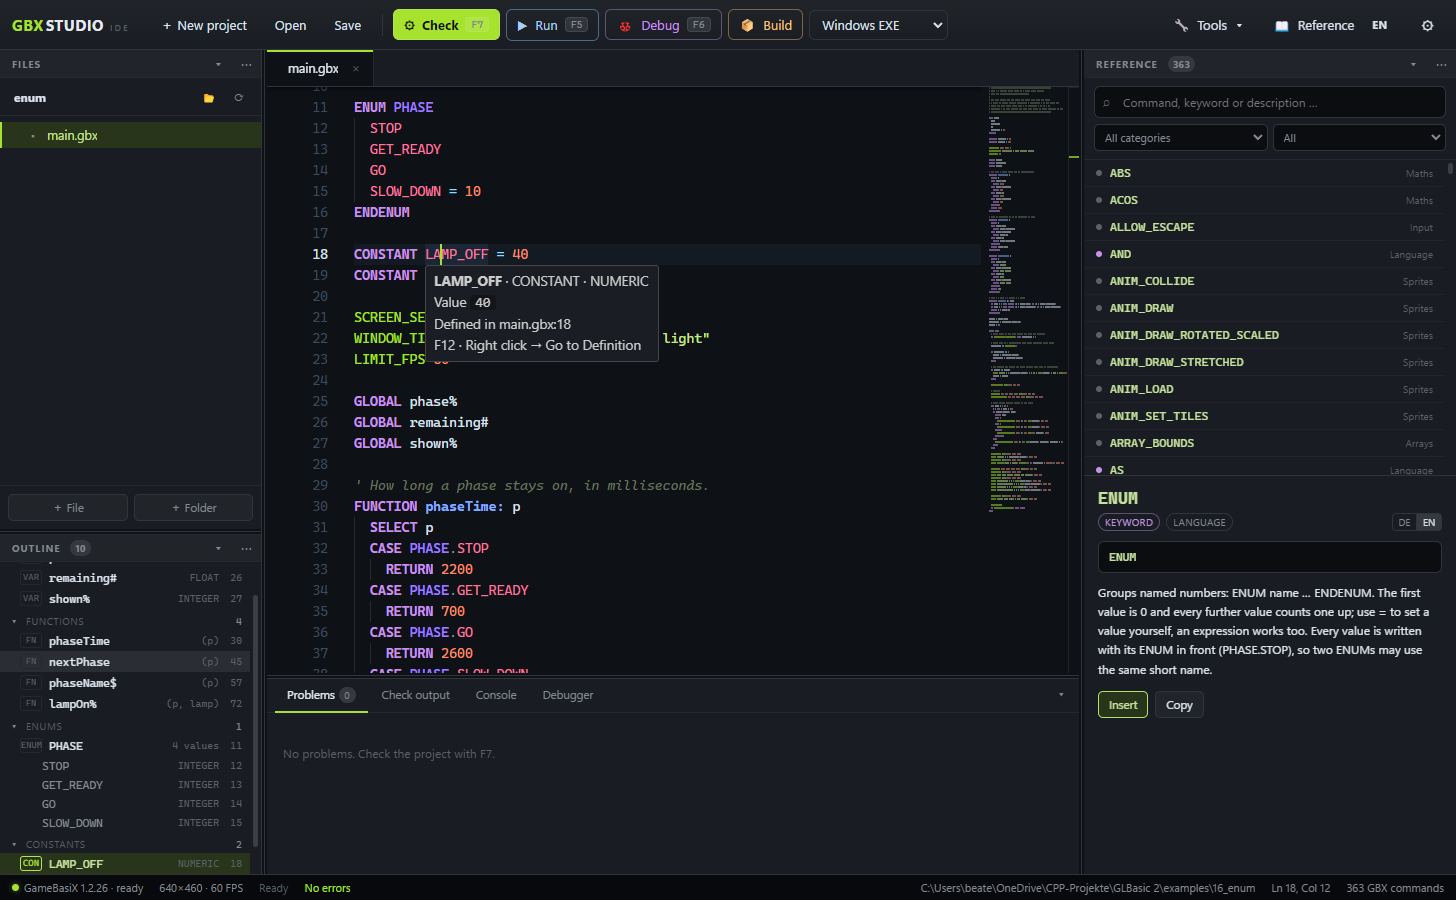
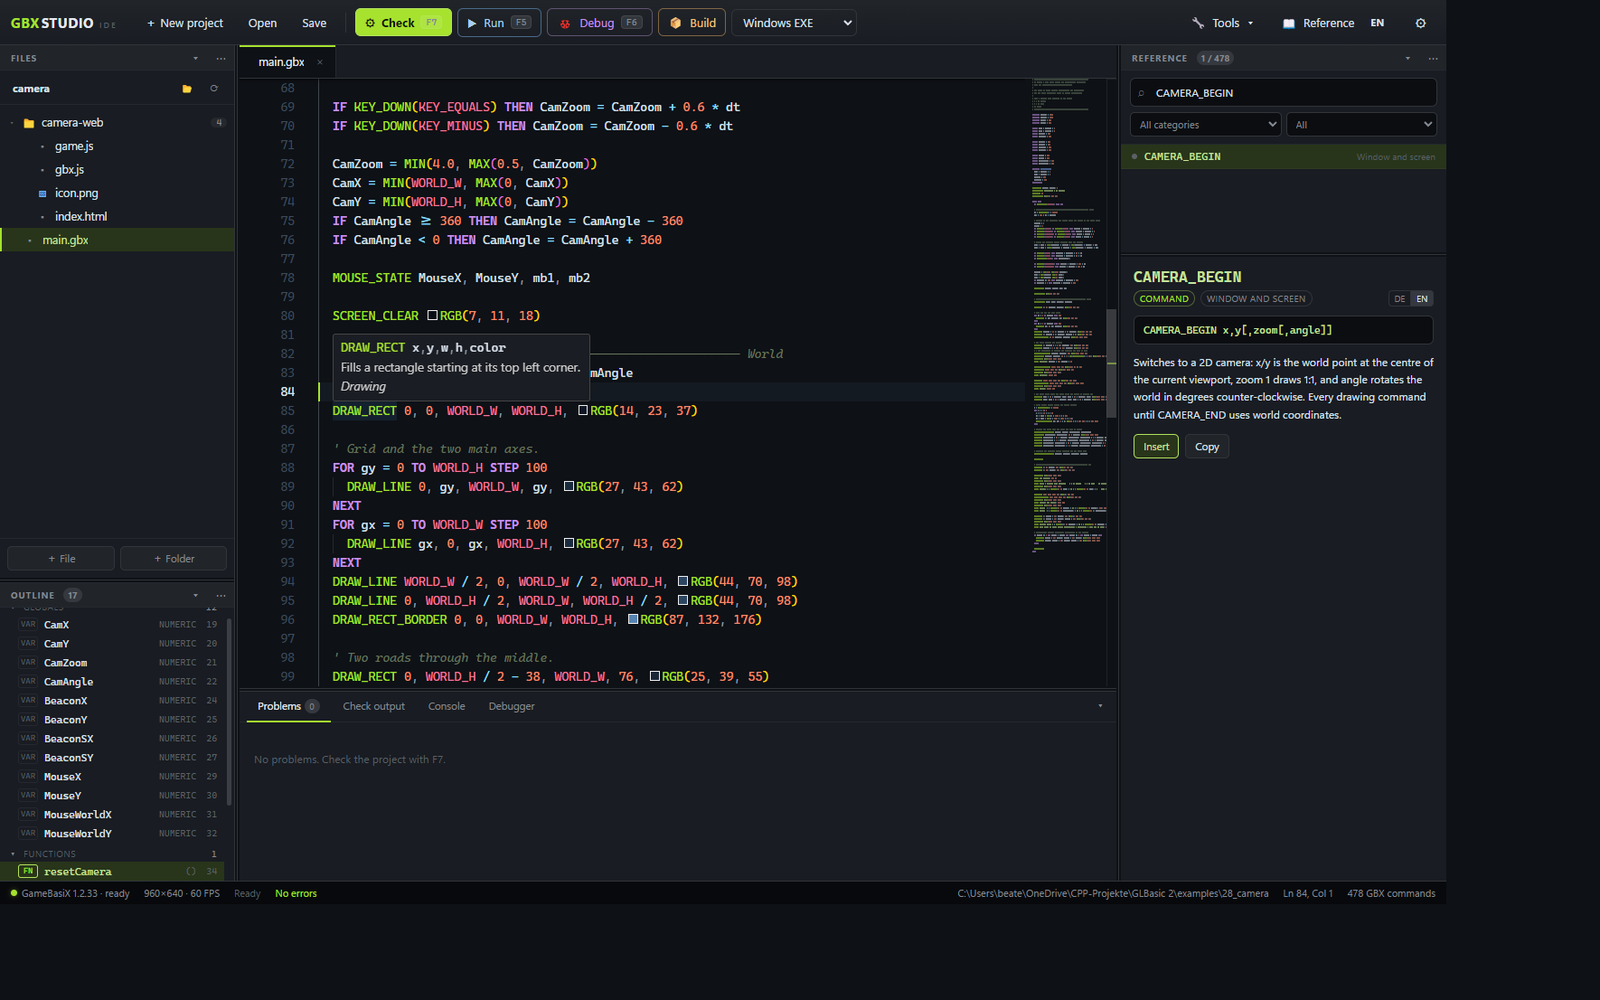
Refresh the GitHub front page with engine and IDE capabilities
The old overview only listed a handful of features and showed an outdated
editor screenshot. Add a current capability matrix, a complete BASIC/INLINE C++
example, two fresh GBX Studio screenshots, and the IDE features that matter for
daily work, from live checks and the bilingual reference to the debugger and
both export targets.

🤖 Generated with Codebuff

diff --git a/README.md b/README.md
@@ -1,57 +1,184 @@
 # GameBasiX
 
+![Release](https://img.shields.io/github/v/release/SliverLIVE/GameBasiX?label=release&color=2E8555)
 ![Platform](https://img.shields.io/badge/platform-Windows%2010%20%7C%2011-0078D4?logo=windows&logoColor=white)
 ![Language](https://img.shields.io/badge/C%2B%2B-17-00599C?logo=cplusplus&logoColor=white)
 ![Graphics](https://img.shields.io/badge/SDL3-renderer-2E8555)
 ![Editor](https://img.shields.io/badge/editor-Electron-47848F?logo=electron&logoColor=white)
-![Tests](https://img.shields.io/badge/tests-language%20%2B%20inline%20%2B%20ui-brightgreen)
+![Tests](https://img.shields.io/badge/tests-17%2F17-brightgreen)
 
-A BASIC interpreter for 2D games, built on **SDL3** – with direct C++ `INLINE`
-blocks, sprites, sound, file access, TCP/UDP and Steam networking, and a
-complete IDE. 3D and platform extras are deliberately out of scope; the 2D
-core is complete.
+**GameBasiX is a native 2D game engine for Windows with its own BASIC interpreter.**
+Write the game in readable BASIC, drop into C++ exactly where speed or a native
+library matters, and keep both languages in the same source file. GBX Studio
+puts the editor, live checks, debugger and both export targets around it.
 
-![GBX Studio](docs/screenshots/ide.png)
+<p align="center">
+  <img src="docs/screenshots/ide.png" alt="GBX Studio 1.2.33 with the 2D camera example, file tree, outline, command reference and live status" width="100%">
+</p>
 
-<sub>**GBX Studio** – live name checking, outline, a searchable command reference,
-ENUM values with their numbers and a value tooltip right next to the code.</sub>
+<p align="center"><sub><b>GBX Studio 1.2.33</b> — the camera example, project files and outline on the left, the C++/BASIC editor in the middle, and the searchable command reference on the right.</sub></p>
 
-## Highlights
+## BASIC for the game. C++ where it matters.
 
-* Language: BASIC with `$`/`%`/`#` suffixes, `FUNCTION`/`SUB`, `TYPE` with
-  `METHOD`s, `ENUM`, arrays with any number of dimensions (`map[x, y]`),
-  `SELECT CASE`, `TRY`/`THROW`, and `+=` for short assignments
-* Runtime: a C++17 interpreter (lexer → parser → AST), no compiler step in between
-* Graphics: SDL3 renderer, PNG/JPG/BMP sprites, rotation/zoom, polygons,
-  render targets, software alpha modes
-* Text: built-in 8×8 bitmap font, bitmap fonts on a 16×8 grid and
-  **TrueType through FreeType** (optional)
-* Sound: a small software mixer for **WAV and MP3** sounds and music (MP3
-  through the bundled minimp3 decoder)
-* Inline C++: `INLINE` definitions and steps with direct access to BASIC
-  variables, compiled once and cached
-* Network: non-blocking TCP and UDP sockets (`NET*`/`UDP*`) plus Steam P2P
-  packets and the friend list through the Steamworks flat API, loaded at
-  runtime
-* Tooling: **GBX Studio** with live checks, a debugger, single-file EXE and
-  HTML5 export - and hot reload: a changed image, font or sound is picked up
-  by the running game
+`INLINE` is not a separate project, a build script or a foreign-function wrapper.
+It is a block in the middle of the BASIC program:
 
-Ready to try it? `cmake -S . -B build -G Ninja && cmake --build build`, then
-`build/gbx.exe examples/09_ui/ui.gbxproj`.
+```basic
+INLINE
+#include "curve.h"                 // definitions: compiled once at startup
+ENDINLINE
 
-## Screenshots
+FUNCTION glow: u
+  value = 0
+  INLINE
+    value = (1.0 - u) * (1.0 - u); // sees the BASIC parameter u and local value
+  ENDINLINE
+  RETURN value
+ENDFUNCTION
+
+WHILE TRUE
+  INLINE
+    Frames = Frames + 1;            // a step: runs here on every frame
+  ENDINLINE
+  SCREEN_SHOW
+WEND
+```
+
+At top level an `INLINE` block contains **definitions**: headers and functions
+registered with `GBX_INLINE_FN("NAME", …)` become ordinary GBX commands. Inside
+a `FUNCTION`, `SUB`, `METHOD`, `IF` or loop it is a **step** that runs at that
+point and sees the BASIC variables of that scope. Steps can call GBX commands
+directly (`PRINT`, `DRAW_LINE`, `DELTA_TIME`, …), resize BASIC arrays
+(`list.push(42)`, `insert`, `remove`, `resize`), or hand a finished image to the
+screen with `blitScreen`. Constants are read-only; user-defined BASIC functions
+stay in BASIC.
+
+Definitions are cached by a hash of the generated C++ and loaded as a DLL on
+startup. Projects can also link ready-built `.a` archives through `[native]`.
+When a game is exported, the compiled INLINE code is embedded in the EXE or in
+the HTML5 player, so the player needs neither a compiler nor a separate DLL.
+See [INLINE: C++ inside the BASIC program](#inline-c-inside-the-basic-program)
+for the complete rules.
+
+## What the engine can do
+
+| Area | Built in |
+| --- | --- |
+| **Language and runtime** | C++17 AST interpreter; suffixes (`$`, `%`, `#`), `FUNCTION`/`SUB`, `TYPE` with methods and defaults, interfaces and inheritance, `ENUM`, multi-dimensional arrays, `SELECT`, `TRY`/`CATCH`/`FINALLY`, `OPTION STRICT`, `BYREF`, static locals, includes and name checking. |
+| **2D rendering** | SDL3 renderer; PNG/JPG/BMP sprites and animation sheets, rotation, scaling, stretching, collision helpers, polygons, render targets, viewports, screen scaling, alpha modes, RGBA colours and a pan/zoom/rotate 2D camera. |
+| **Text and fonts** | Built-in 8×8 bitmap font, bitmap fonts on a 16×8 grid, TrueType through FreeType, text measurement, coloured text and `INPUT` fields. |
+| **Audio** | Software mixer for WAV and MP3 sounds and music; pan, volume, loops and playback state. MP3 decoding uses the bundled minimp3. |
+| **Input** | Keyboard scancodes with `KEY_*` names, mouse position/buttons/wheel, single-frame presses and connected gamepads with named buttons and axes. |
+| **Data** | Buffered text and binary file I/O, directories, string/math helpers, arrays with sort/find, string-keyed dictionaries, `TYPE` arrays and arrays inside `TYPE`s. |
+| **Networking** | Non-blocking TCP and UDP; listen/accept/connect, text packets, peer address, pending bytes and error text. |
+| **Steam** | Friends and P2P packets, achievements, integer/float stats, leaderboards, cloud files, lobbies with member data, rich presence, overlay, auth session tickets and DLC checks. Loaded at runtime; the Steam DLL is not redistributed. |
+| **Tasks and async work** | `TASK`/`AWAIT FRAME`/`AWAIT seconds` cooperative fibers, `SPAWN(@function, …)` worker jobs, `FILE_READ_ASYNC`/`FILE_WRITE_ASYNC`, and `JOB_DONE`/`JOB_VALUE` polling without blocking the frame. |
+| **Native C++** | `INLINE` definitions and steps, direct access to BASIC variables and arrays, direct GBX calls, `[native]` archives/object files, generated C++ export and HTML5/Wasm support through Emscripten. |
+| **Tools and shipping** | GBX Studio, live name/arity checking, debugger, hot reload for assets, one-file Windows EXE export and self-contained HTML5 export. |
+| **Scope** | Deliberately 2D. There is no 3D renderer, scene graph or platform-specific editor layer; the 2D core is the product. |
+
+The built-in command set covers **300+ commands**; the IDE ships **478 searchable
+reference entries** including commands, keywords, operators, types and `KEY_*`
+constants. The complete list is in the [command reference](#command-reference),
+in [CHEATSHEET.png](CHEATSHEET.png), or in the IDE's reference panel.
+
+## GBX Studio: what makes it different
+
+GBX Studio is not a generic text editor with a syntax file bolted on. It knows
+the project, the interpreter and the C++ blocks:
+
+- **Two languages, one editor.** Monaco highlights GBX and switches to its C++
+  tokenizer between `INLINE` and `ENDINLINE`; `.h` and `.cpp` files open as C++.
+  User TYPEs, functions, constants, ENUM values and names registered with
+  `GBX_INLINE_FN` get their own colours, completion and hover information.
+- **Checks while you type.** Half a second after the last keystroke the unsaved
+  buffer goes through `gbx --check --stdin`: syntax, unknown names, argument
+  counts and TYPE fields become markers in the gutter and entries under
+  **Problems**. No temporary files, no save required.
+- **The reference is part of the workspace.** All 478 entries have signatures
+  and descriptions in English and German, plus sample code where the command
+  has one. Search, filter by category, read the detail pane, then **Insert** or
+  **Copy** the signature without leaving the code.
+- **Navigation that understands the language.** `F12` goes to a definition,
+  `Shift+F12` lists every use and `F2` renames a symbol across the project.
+  Scope matters: a field is searched in its TYPE and behind `obj.field`, a
+  local only in its routine; comments, strings and INLINE blocks are skipped.
+- **A debugger attached to the interpreter.** Breakpoints (also conditional),
+  pause while running, step in/over/out, locals, globals, call stack and
+  current values in a hover tooltip. The paused file opens automatically, even
+  when the breakpoint is in an included file.
+- **Run, check, build.** `F5` runs, `F7` checks, `F6` debugs and `Ctrl+E` builds
+  the selected target: a Windows EXE (assets next to it) or a self-contained
+  HTML5 folder.
+  Saving an image, font or sound hot-reloads it into the running game.
+- **A workspace that stays put.** Files, outline, reference, problems, output,
+  console and debugger dock where you want them; widths and arrangement are
+  stored per project. Dark and light themes, media previews, project templates
+  and Google Fonts download are built in.
+
+### INLINE, up close
+
+<p align="center">
+  <img src="docs/screenshots/ide-inline.png" alt="GBX Studio showing BASIC and INLINE C++ in the same file with the INLINE reference entry" width="100%">
+</p>
+
+<p align="center"><sub><b>BASIC and C++ in one file</b> — the C++ block is highlighted as C++, the reference explains both kinds of INLINE block, and the project outline still sees the BASIC function and globals.</sub></p>
+
+## See it running
 
 | | |
 |:--:|:--:|
-| <img src="docs/screenshots/ui.png" width="430" alt="UI demo with windows and widgets"> | <img src="docs/screenshots/box2d.png" width="430" alt="Box2D-Lite physics demo"> |
-| **UI toolkit** – windows, widgets and themes in pure BASIC (`examples/09_ui`) | **Physics** – Box2D-Lite through `INLINE` (`examples/08_box2d`) |
+| <img src="docs/screenshots/ui.png" width="430" alt="UI toolkit demo with windows and widgets"> | <img src="docs/screenshots/box2d.png" width="430" alt="Box2D-Lite physics demo"> |
+| **UI toolkit** — windows, widgets and themes in pure BASIC (`examples/09_ui`) | **Physics** — Box2D-Lite through `INLINE` (`examples/08_box2d`) |
 | <img src="docs/screenshots/platformer.png" width="430" alt="Platformer with coins, pipes and enemies"> | <img src="docs/screenshots/breakout.png" width="430" alt="Breakout game"> |
-| **Pip and the Golden Coins** – a platformer with tiles, enemies and sound (`examples/13_platformer`) | **Breakout** – a complete game in `examples/02_breakout` |
-| <img src="docs/screenshots/sparks.png" width="430" alt="Sparks demo"> | <img src="docs/screenshots/net.png" width="430" alt="LAN chat with a shared dot"> |
-| **900 sparks** – C++ steps moving a `TYPE` array (`examples/06_sparks`) | **LAN link** – TCP chat, UDP cursor (`examples/11_net`) |
-| <img src="docs/screenshots/steam.png" width="430" alt="Steam P2P chat"> | <img src="docs/screenshots/ide.png" width="430" alt="GBX Studio"> |
-| **Steam link** – friends and P2P packets (`examples/12_steam`) | **GBX Studio** – editor, debugger, checks and export (`ide/`) |
+| **Pip and the Golden Coins** — tiles, enemies and sound (`examples/13_platformer`) | **Breakout** — a complete game (`examples/02_breakout`) |
+| <img src="docs/screenshots/sparks.png" width="430" alt="Sparks demo"> | <img src="docs/screenshots/steam.png" width="430" alt="Steam P2P chat"> |
+| **900 sparks** — C++ steps moving a `TYPE` array (`examples/06_sparks`) | **Steam link** — friends and P2P packets (`examples/12_steam`) |
+
+The two newest examples are [`examples/27_tasks`](examples/27_tasks) (tasks,
+worker jobs and async files) and [`examples/28_camera`](examples/28_camera)
+(pan, zoom, rotation and screen/world conversion).
+
+## Quick start
+
+**Use the portable build.** Download the latest
+[Windows x64 release](https://github.com/SliverLIVE/GameBasiX/releases/latest),
+unzip it and double-click **`GBXStudio.exe`**. Nothing has to be installed: the
+package contains Electron, the interpreter, the bundled GCC for INLINE and the
+HTML5 player. `GBXStudio_web.exe` opens the same editor in a browser instead.
+
+**Build from source** (Windows, MSYS2 UCRT64, CMake and Ninja):
+
+```bash
+cmake -S . -B build -G Ninja -DCMAKE_BUILD_TYPE=Release
+cmake --build build
+build/gbx.exe examples/28_camera/camera.gbxproj
+```
+
+The build creates `build/gbx.exe`, `GBXStudio.exe` and `GBXStudio_web.exe`.
+The version is read from `ide/package.json`; the detailed build options,
+static-runtime packaging, project format and export notes follow below.
+
+## Documentation
+
+- [Building](#building) — requirements, static runtime and the portable layout
+- [Running](#running) — CLI options and exit codes
+- [Project file format](#project-file-format) — `.gbxproj`, includes and native libraries
+- [The language at a glance](#the-language-at-a-glance) — types, arrays, methods and control flow
+- [Command reference](#command-reference) — every built-in command by category
+- [INLINE: C++ inside the BASIC program](#inline-c-inside-the-basic-program) — definitions, steps and limits
+- [Tasks, jobs and async files](#tasks-jobs-and-async-files) — fibers and worker jobs
+- [GBX Studio](ide/README.md) — editor, debugger, HTML5 export and IDE tests
+- [CHEATSHEET.html](CHEATSHEET.html) / [CHEATSHEET.png](CHEATSHEET.png) — the one-page command sheet
+
+## Status
+
+Version **1.2.33** is the current release. The C++ suite passes **17 of 17**
+CTest targets, including language, INLINE, UI, files, networking, rendering,
+commands, export, native libraries, Steam, lint, debugger and hot reload. The
+IDE suite passes with the rebuilt command dataset. The project is deliberately
+focused on Windows desktop and browser play; 3D and console platforms are out
+of scope.
 
 ## Building
 
